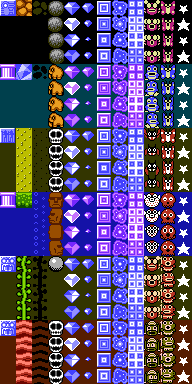
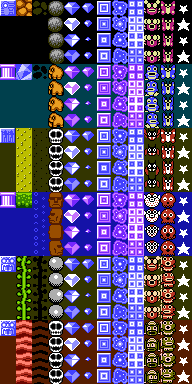
Ajout du changement de texture en fonction des niveaux

Changed region(s): [[0.25, 0.6875, 0.3438, 0.8438]]

diff --git a/entity/src/main/java/entity/Block.java b/entity/src/main/java/entity/Block.java
@@ -35,7 +35,8 @@ public class Block extends Map{
      * @param y a int.
      * @param t a {@link entity.BlockType} object.
      */
-    public Block(int x, int y, BlockType t){
+    public Block(int x, int y, BlockType t, int MapID){
+        MapID--;
         this.posX = x;
         this.posY = y;
         this.type = t;
@@ -43,34 +44,34 @@ public class Block extends Map{
         frameIndex = 0;
 
         rockSprites = new Image[4];
-        rockSprites[0] = getSpriteSheet().getSubimage(3 * 16,0 * 16, 16, 16);
-        rockSprites[1] = getSpriteSheet().getSubimage(3 * 16,1 * 16, 16, 16);
-        rockSprites[2] = getSpriteSheet().getSubimage(3 * 16,2 * 16, 16, 16);
-        rockSprites[3] = getSpriteSheet().getSubimage(3 * 16,3 * 16, 16, 16);
+        rockSprites[0] = getSpriteSheet().getSubimage(3 * 16,MapID*64 + 0 * 16, 16, 16);
+        rockSprites[1] = getSpriteSheet().getSubimage(3 * 16,MapID*64 + 1 * 16, 16, 16);
+        rockSprites[2] = getSpriteSheet().getSubimage(3 * 16,MapID*64 + 2 * 16, 16, 16);
+        rockSprites[3] = getSpriteSheet().getSubimage(3 * 16,MapID*64 + 3 * 16, 16, 16);
 
         diamondSprites = new Image[4];
-        diamondSprites[0] = getSpriteSheet().getSubimage(4 * 16,0 * 16, 16, 16);
-        diamondSprites[1] = getSpriteSheet().getSubimage(4 * 16,1 * 16, 16, 16);
-        diamondSprites[2] = getSpriteSheet().getSubimage(4 * 16,2 * 16, 16, 16);
-        diamondSprites[3] = getSpriteSheet().getSubimage(4 * 16,3 * 16, 16, 16);
+        diamondSprites[0] = getSpriteSheet().getSubimage(4 * 16,MapID*64 + 0 * 16, 16, 16);
+        diamondSprites[1] = getSpriteSheet().getSubimage(4 * 16,MapID*64 + 1 * 16, 16, 16);
+        diamondSprites[2] = getSpriteSheet().getSubimage(4 * 16,MapID*64 + 2 * 16, 16, 16);
+        diamondSprites[3] = getSpriteSheet().getSubimage(4 * 16,MapID*64 + 3 * 16, 16, 16);
 
         endSprites = new Image[4];
-        endSprites[0] = getSpriteSheet().getSubimage(7 * 16,0 * 16, 16, 16);
-        endSprites[1] = getSpriteSheet().getSubimage(7 * 16,1 * 16, 16, 16);
-        endSprites[2] = getSpriteSheet().getSubimage(7 * 16,2 * 16, 16, 16);
-        endSprites[3] = getSpriteSheet().getSubimage(7 * 16,3 * 16, 16, 16);
+        endSprites[0] = getSpriteSheet().getSubimage(7 * 16,MapID*64 + 0 * 16, 16, 16);
+        endSprites[1] = getSpriteSheet().getSubimage(7 * 16,MapID*64 + 1 * 16, 16, 16);
+        endSprites[2] = getSpriteSheet().getSubimage(7 * 16,MapID*64 + 2 * 16, 16, 16);
+        endSprites[3] = getSpriteSheet().getSubimage(7 * 16,MapID*64 + 3 * 16, 16, 16);
 
-        wallSprite = getSpriteSheet().getSubimage(0 * 16, 0*16, 16, 16);
+        wallSprite = getSpriteSheet().getSubimage(0 * 16, MapID*64 + 0*16, 16, 16);
 
         starSprite = new Image[4];
-        starSprite[0] = getSpriteSheet().getSubimage(11 * 16, 0*16, 16, 16);
-        starSprite[1] = getSpriteSheet().getSubimage(11 * 16, 1*16, 16, 16);
-        starSprite[2] = getSpriteSheet().getSubimage(11 * 16, 2*16, 16, 16);
-        starSprite[3] = getSpriteSheet().getSubimage(11 * 16, 3*16, 16, 16);
+        starSprite[0] = getSpriteSheet().getSubimage(11 * 16, MapID*64 + 0*16, 16, 16);
+        starSprite[1] = getSpriteSheet().getSubimage(11 * 16, MapID*64 + 1*16, 16, 16);
+        starSprite[2] = getSpriteSheet().getSubimage(11 * 16, MapID*64 + 2*16, 16, 16);
+        starSprite[3] = getSpriteSheet().getSubimage(11 * 16, MapID*64 + 3*16, 16, 16);
 
-        emptySprite = getSpriteSheet().getSubimage(2 * 16, 0*16, 16, 16);
+        emptySprite = getSpriteSheet().getSubimage(2 * 16, MapID*64 + 0*16, 16, 16);
 
-        dirtSprite = getSpriteSheet().getSubimage(1 * 16, 0*16, 16, 16);
+        dirtSprite = getSpriteSheet().getSubimage(1 * 16, MapID*64 + 0*16, 16, 16);
     }
 
     /**

diff --git a/model/src/main/java/model/Model.java b/model/src/main/java/model/Model.java
@@ -20,7 +20,7 @@ import javax.swing.text.View;
  */
 public final class Model extends Observable implements IModel {
 	private final int OFFSET = 16; // Const offset 16px
-	private int mapID = 1; // Map to load
+	private int mapID = 5; // Map to load
 	private boolean win, dead = false;
 	private long time;
 
@@ -124,7 +124,7 @@ public final class Model extends Observable implements IModel {
 					// If player is under a falling block, game over
 					if(actualBlock.isFalling() && ((IndexPos(player.getPosX()) == x) && (IndexPos(player.getPosY() - 1) == y))){
 						actualBlock.setFalling(false);
-						PlayerDeathAnnimation(player.getPosX(), player.getPosY());
+						PlayerDeathAnnimation(IndexPos(player.getPosX()), IndexPos(player.getPosY()));
 						setDead(true);
 					}
 
@@ -235,35 +235,35 @@ public final class Model extends Observable implements IModel {
 		this.dead = dead;
 	}
 
-	public void PlayerDeathAnnimation(int prevTopX, int prevTotY){
+	public void PlayerDeathAnnimation(int x, int y){
 		ArrayList<BlockType> forbiddenBlocks = new ArrayList<>();
 		forbiddenBlocks.add(BlockType.ROCK);
 		forbiddenBlocks.add(BlockType.WALL);
 		forbiddenBlocks.add(BlockType.DIAMOND);
 
-		if (!forbiddenBlocks.contains(getMap().getBlockType(IndexPos(prevTopX - OFFSET), IndexPos(prevTotY)))){
-			getMap().TransformToStar(IndexPos(prevTopX - OFFSET), IndexPos(prevTotY));
+		if (!forbiddenBlocks.contains(getMap().getBlockType(x-1, y))){
+			getMap().TransformToStar(x-1, y);
 		}
-		if (!forbiddenBlocks.contains(getMap().getBlockType(IndexPos(prevTopX - OFFSET), IndexPos(prevTotY-OFFSET)))){
-			getMap().TransformToStar(IndexPos(prevTopX - OFFSET), IndexPos(prevTotY-OFFSET));
+		if (!forbiddenBlocks.contains(getMap().getBlockType(x-1, y-1))){
+			getMap().TransformToStar(x-1, y-1);
 		}
-		if (!forbiddenBlocks.contains(getMap().getBlockType(IndexPos(prevTopX - OFFSET), IndexPos(prevTotY+OFFSET)))){
-			getMap().TransformToStar(IndexPos(prevTopX - OFFSET), IndexPos(prevTotY+OFFSET));
+		if (!forbiddenBlocks.contains(getMap().getBlockType(x-1, y+1))){
+			getMap().TransformToStar(x-1, y+1);
 		}
-		if (!forbiddenBlocks.contains(getMap().getBlockType(IndexPos(prevTopX), IndexPos(prevTotY+OFFSET)))){
-			getMap().TransformToStar(IndexPos(prevTopX), IndexPos(prevTotY+OFFSET));
+		if (!forbiddenBlocks.contains(getMap().getBlockType(x, y+1))){
+			getMap().TransformToStar(x, y+1);
 		}
-		if (!forbiddenBlocks.contains(getMap().getBlockType(IndexPos(prevTopX), IndexPos(prevTotY-OFFSET)))){
-			getMap().TransformToStar(IndexPos(prevTopX), IndexPos(prevTotY-OFFSET));
+		if (!forbiddenBlocks.contains(getMap().getBlockType(x, y-1))){
+			getMap().TransformToStar(x, y-1);
 		}
-		if (!forbiddenBlocks.contains(getMap().getBlockType(IndexPos(prevTopX + OFFSET), IndexPos(prevTotY-OFFSET)))){
-			getMap().TransformToStar(IndexPos(prevTopX + OFFSET), IndexPos(prevTotY-OFFSET));
+		if (!forbiddenBlocks.contains(getMap().getBlockType(x+1, y-1))){
+			getMap().TransformToStar(x+1, y-1);
 		}
-		if (!forbiddenBlocks.contains(getMap().getBlockType(IndexPos(prevTopX + OFFSET), IndexPos(prevTotY+OFFSET)))){
-			getMap().TransformToStar(IndexPos(prevTopX + OFFSET), IndexPos(prevTotY+OFFSET));
+		if (!forbiddenBlocks.contains(getMap().getBlockType(x+1, y+1))){
+			getMap().TransformToStar(x+1, y+1);
 		}
-		if (!forbiddenBlocks.contains(getMap().getBlockType(IndexPos(prevTopX+OFFSET), IndexPos(prevTotY)))){
-			getMap().TransformToStar(IndexPos(prevTopX+OFFSET), IndexPos(prevTotY));
+		if (!forbiddenBlocks.contains(getMap().getBlockType(x+1, y))){
+			getMap().TransformToStar(x+1, y);
 		}
 	}
 

diff --git a/model/src/main/java/model/DAOMap.java b/model/src/main/java/model/DAOMap.java
@@ -75,7 +75,7 @@ class DAOMap extends DAOEntity<Map> {
                             type = BlockType.WALL;
                             break;
                     }
-                    Block block = new Block(x*16,y*16,type);
+                    Block block = new Block(x*16,y*16,type, id);
                     map.setBlocks(y, x, block);
                 }
                 // txt char line
